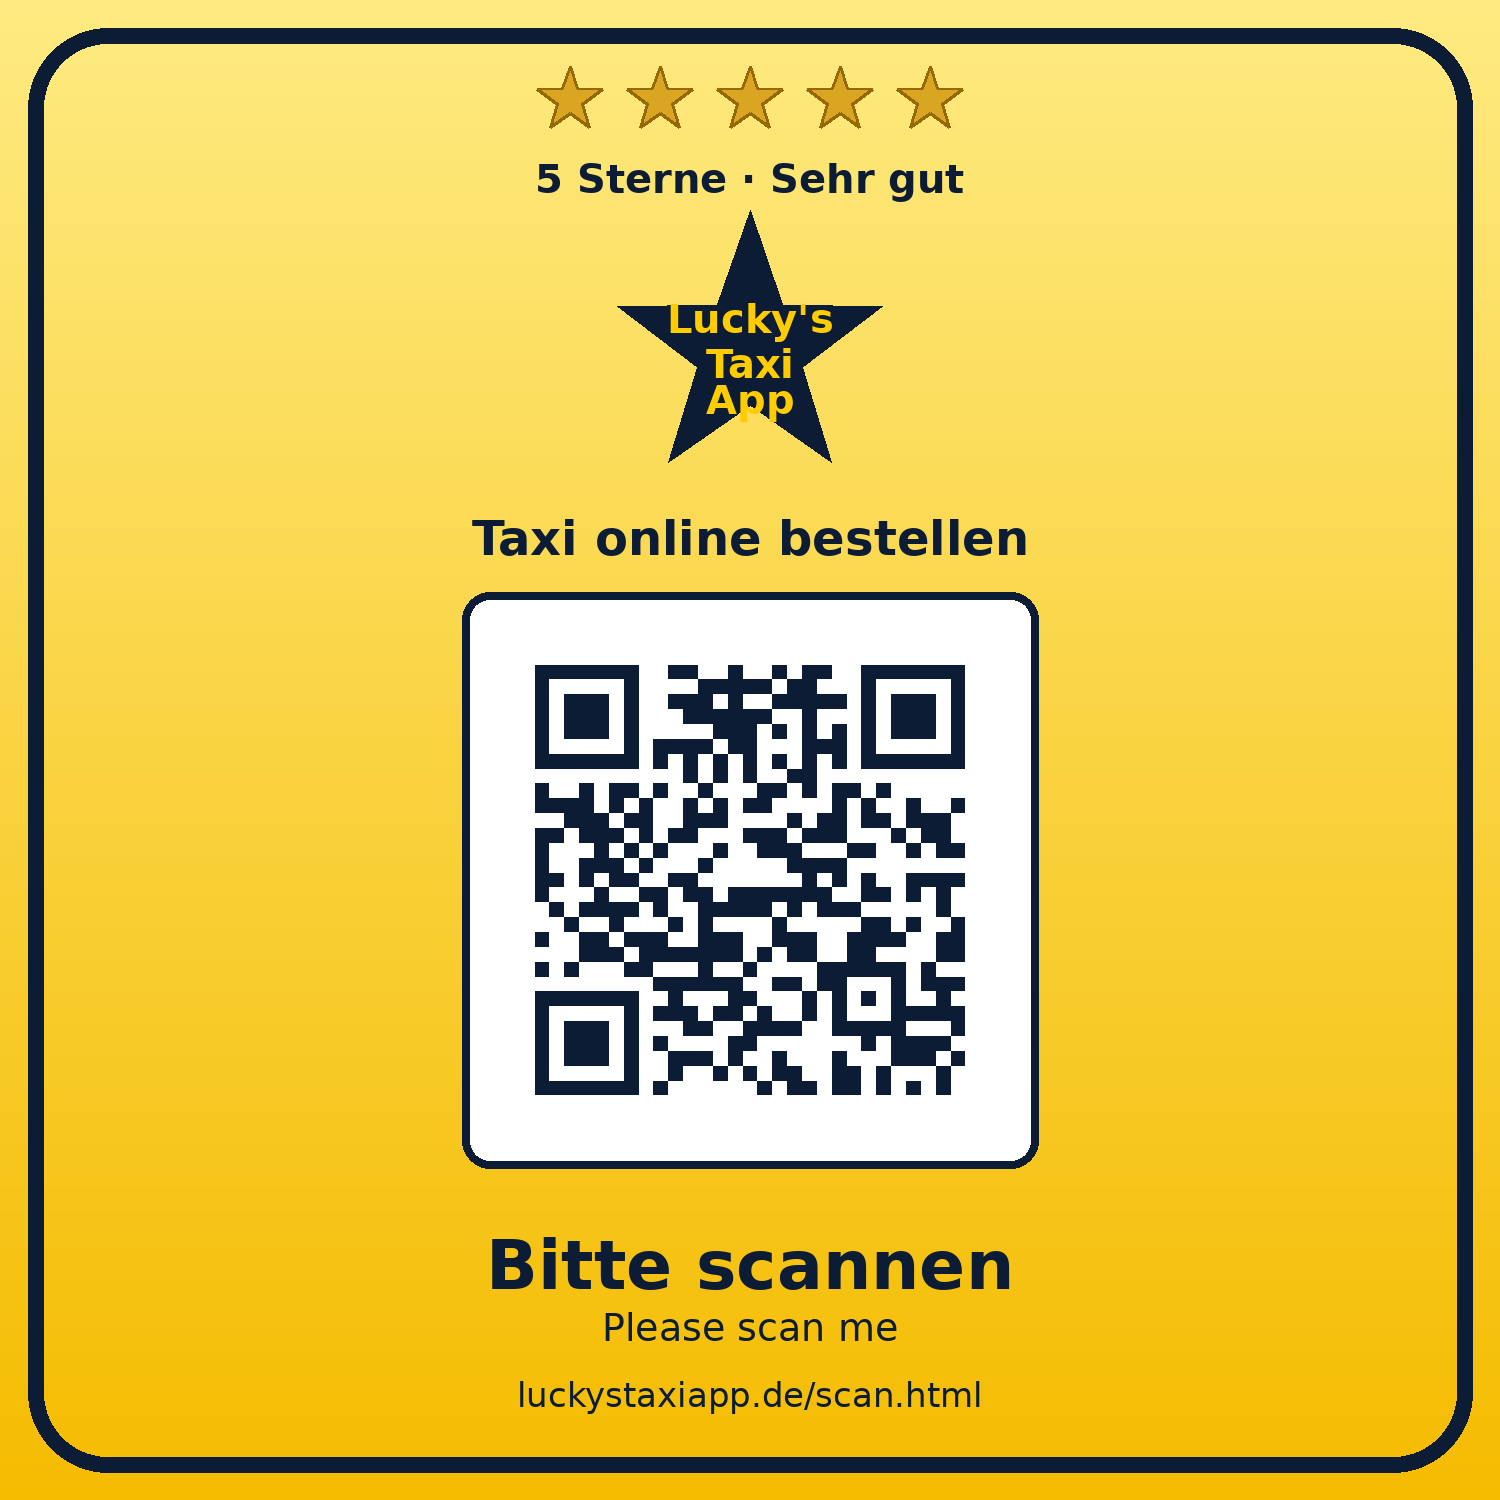
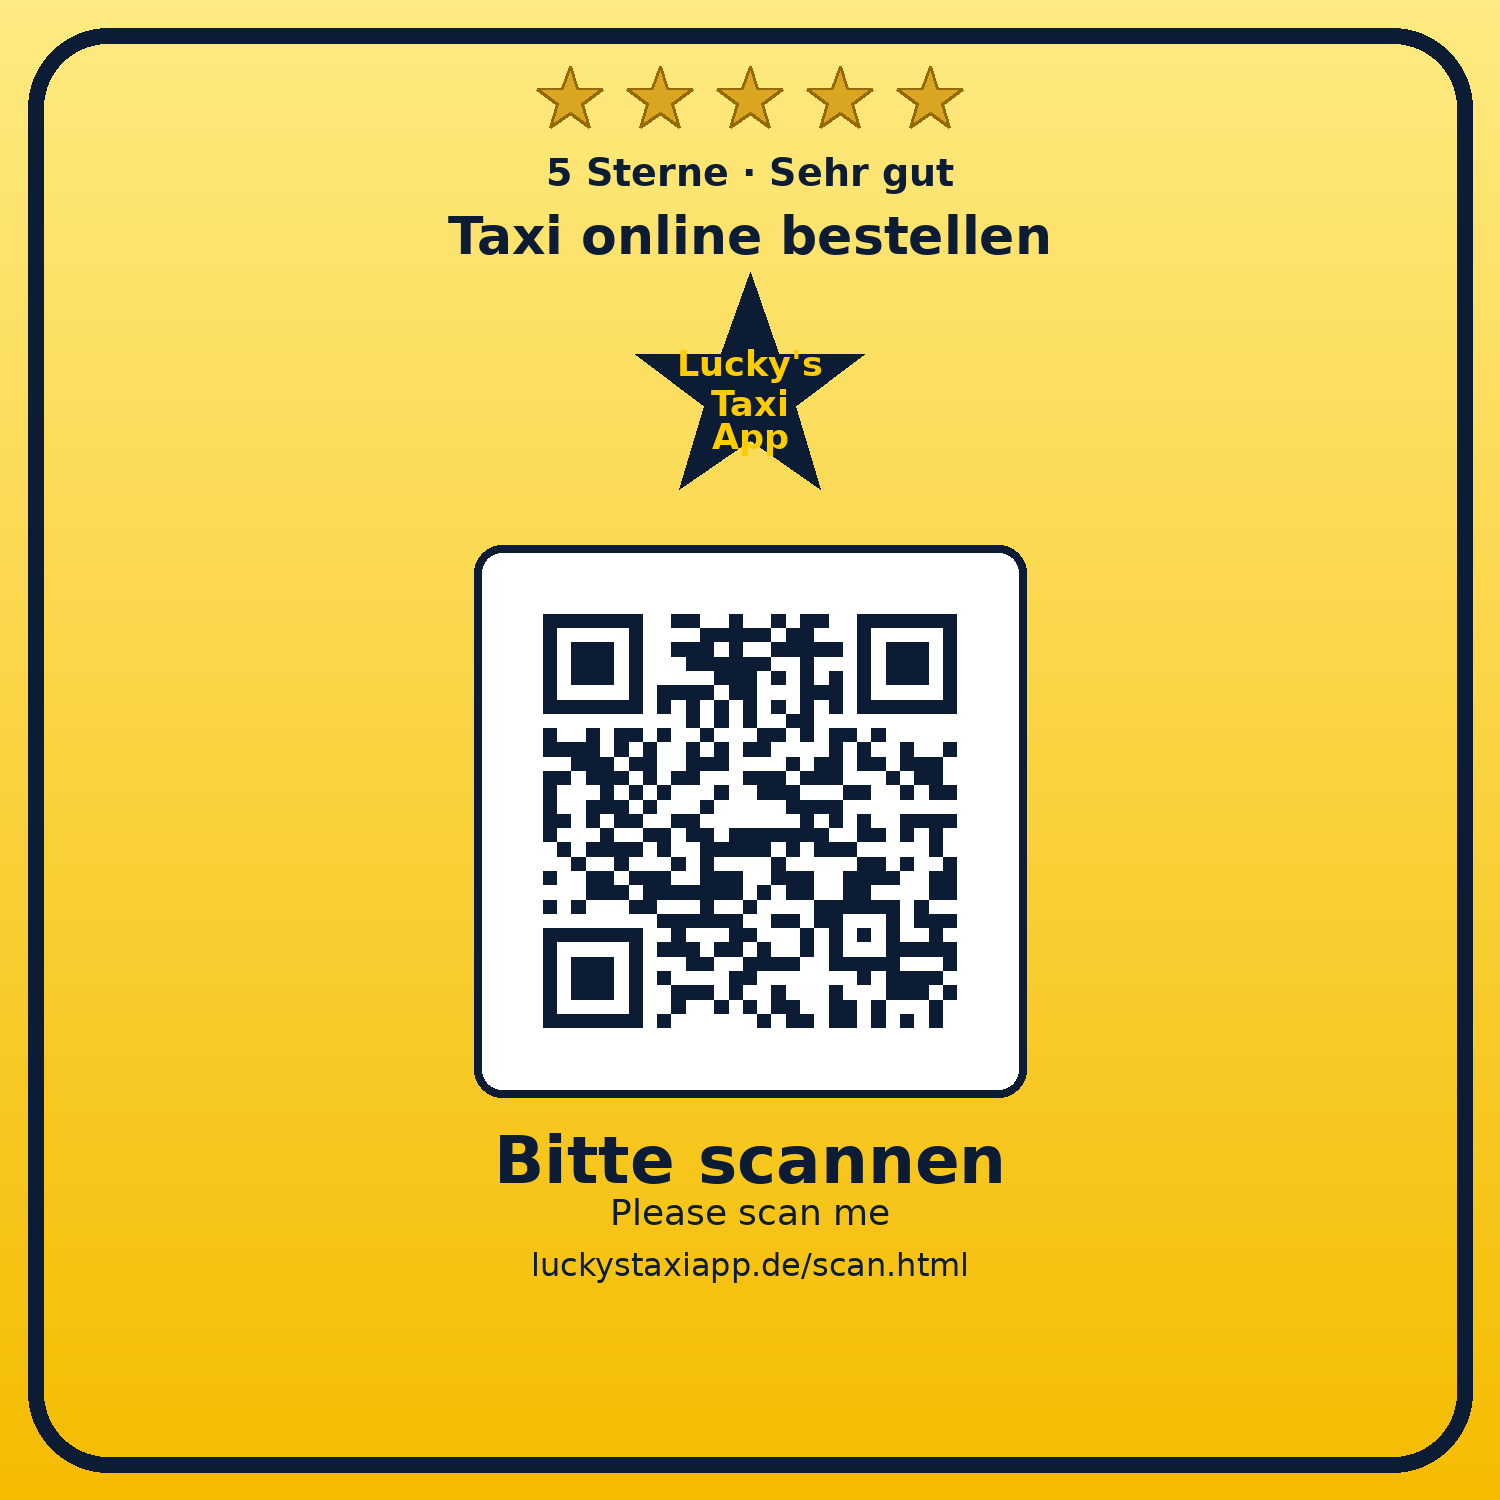
Setze „Taxi online bestellen“ nach oben, frei über Markenstern und QR.
Die Überschrift liegt nicht mehr am QR-Rahmen und bleibt gut lesbar.

Changed region(s): [[0.3067, 0.092, 0.7053, 0.8893], [0.3373, 0.92, 0.644, 0.9507]]

diff --git a/scripts/generate-aufkleber-qr.py b/scripts/generate-aufkleber-qr.py
@@ -118,28 +118,31 @@ def main() -> None:
     for i in range(5):
         draw_star(draw, start_x + i * gap, star_y, 34, GOLD, outline=GOLD_EDGE, width=3)
 
-    f_label = font(40)
-    f_lead = font(48)
-    f_scan = font(68)
-    f_en = font(38, bold=False)
-    f_url = font(34, bold=False)
+    f_label = font(38)
+    f_lead = font(52)
+    f_scan = font(66)
+    f_en = font(36, bold=False)
+    f_url = font(32, bold=False)
 
-    center_text(draw, "5 Sterne · Sehr gut", 155, f_label)
+    center_text(draw, "5 Sterne · Sehr gut", 150, f_label)
 
-    # Markenstern (etwas kleiner, höher)
-    mark = brand_mark(290)
-    img.paste(mark, ((size - mark.width) // 2, 205), mark)
+    # Überschrift WEIT OBEN — klar frei, nicht am QR
+    lead = "Taxi online bestellen"
+    lead_y = 205
+    center_text(draw, lead, lead_y, f_lead)
+    lead_bb = draw.textbbox((0, lead_y), lead, font=f_lead)
 
-    # Überschrift klar oberhalb des QR — nicht vom weißen QR-Rahmen bedeckt
-    center_text(draw, "Taxi online bestellen", 510, f_lead)
+    # Markenstern darunter
+    mark = brand_mark(250)
+    mark_y = lead_bb[3] + 12
+    img.paste(mark, ((size - mark.width) // 2, mark_y), mark)
 
-    # QR darunter mit sichtbarem Abstand zur Überschrift
-    qr_side = 520
+    # QR mit großzügigem Abstand unter dem Stern
+    qr_side = 500
     qr_img = make_qr(qr_side)
+    pad = 26
     qx = (size - qr_side) // 2
-    qy = 620
-    pad = 28
-    # Oberkante Rahmen ≈ 592 → genug Luft unter der Zeile bei y=510
+    qy = mark_y + mark.height + 28 + pad
     draw.rounded_rectangle(
         (qx - pad, qy - pad, qx + qr_side + pad, qy + qr_side + pad),
         radius=28,
@@ -149,9 +152,10 @@ def main() -> None:
     )
     img.paste(qr_img, (qx, qy))
 
-    center_text(draw, "Bitte scannen", 1225, f_scan)
-    center_text(draw, "Please scan me", 1305, f_en)
-    center_text(draw, "luckystaxiapp.de/scan.html", 1375, f_url)
+    below = qy + qr_side + pad + 24
+    center_text(draw, "Bitte scannen", below, f_scan)
+    center_text(draw, "Please scan me", below + 70, f_en)
+    center_text(draw, "luckystaxiapp.de/scan.html", below + 125, f_url)
 
     OUT.parent.mkdir(parents=True, exist_ok=True)
     img.save(OUT, "PNG", optimize=True)
